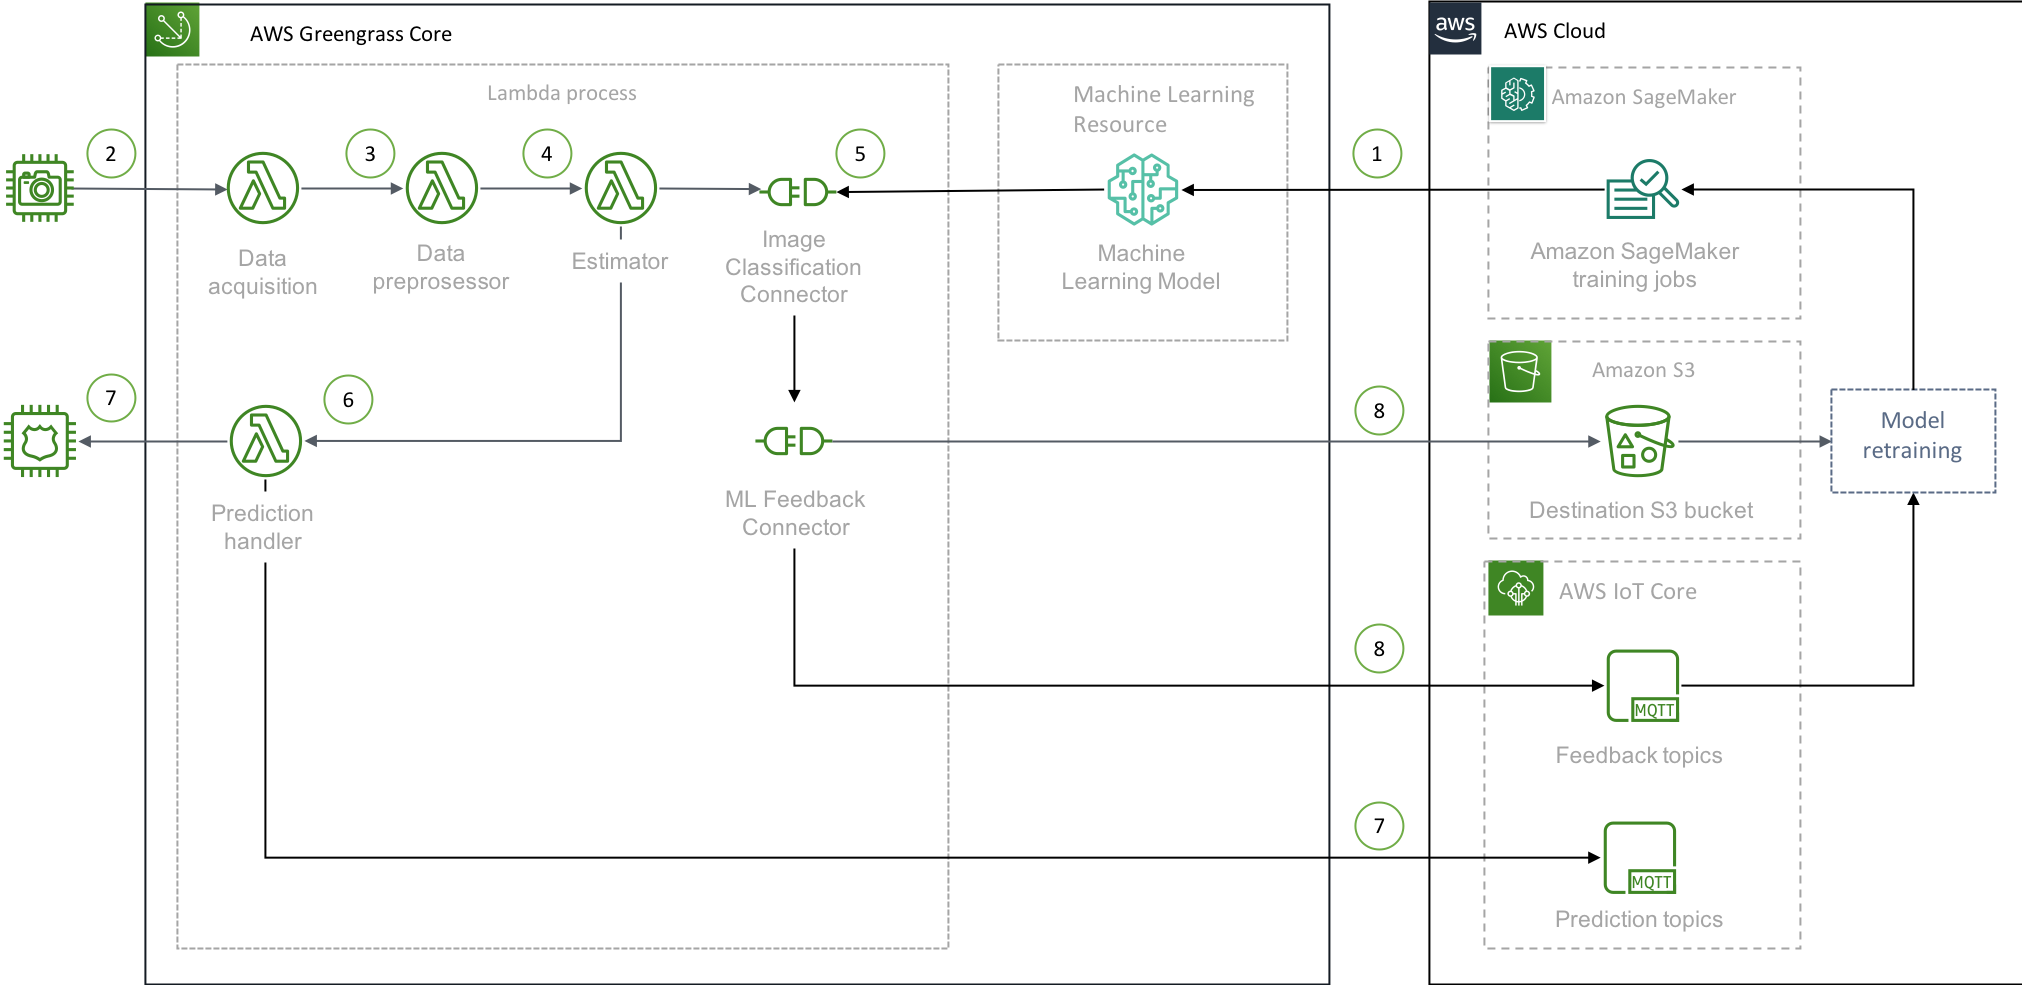
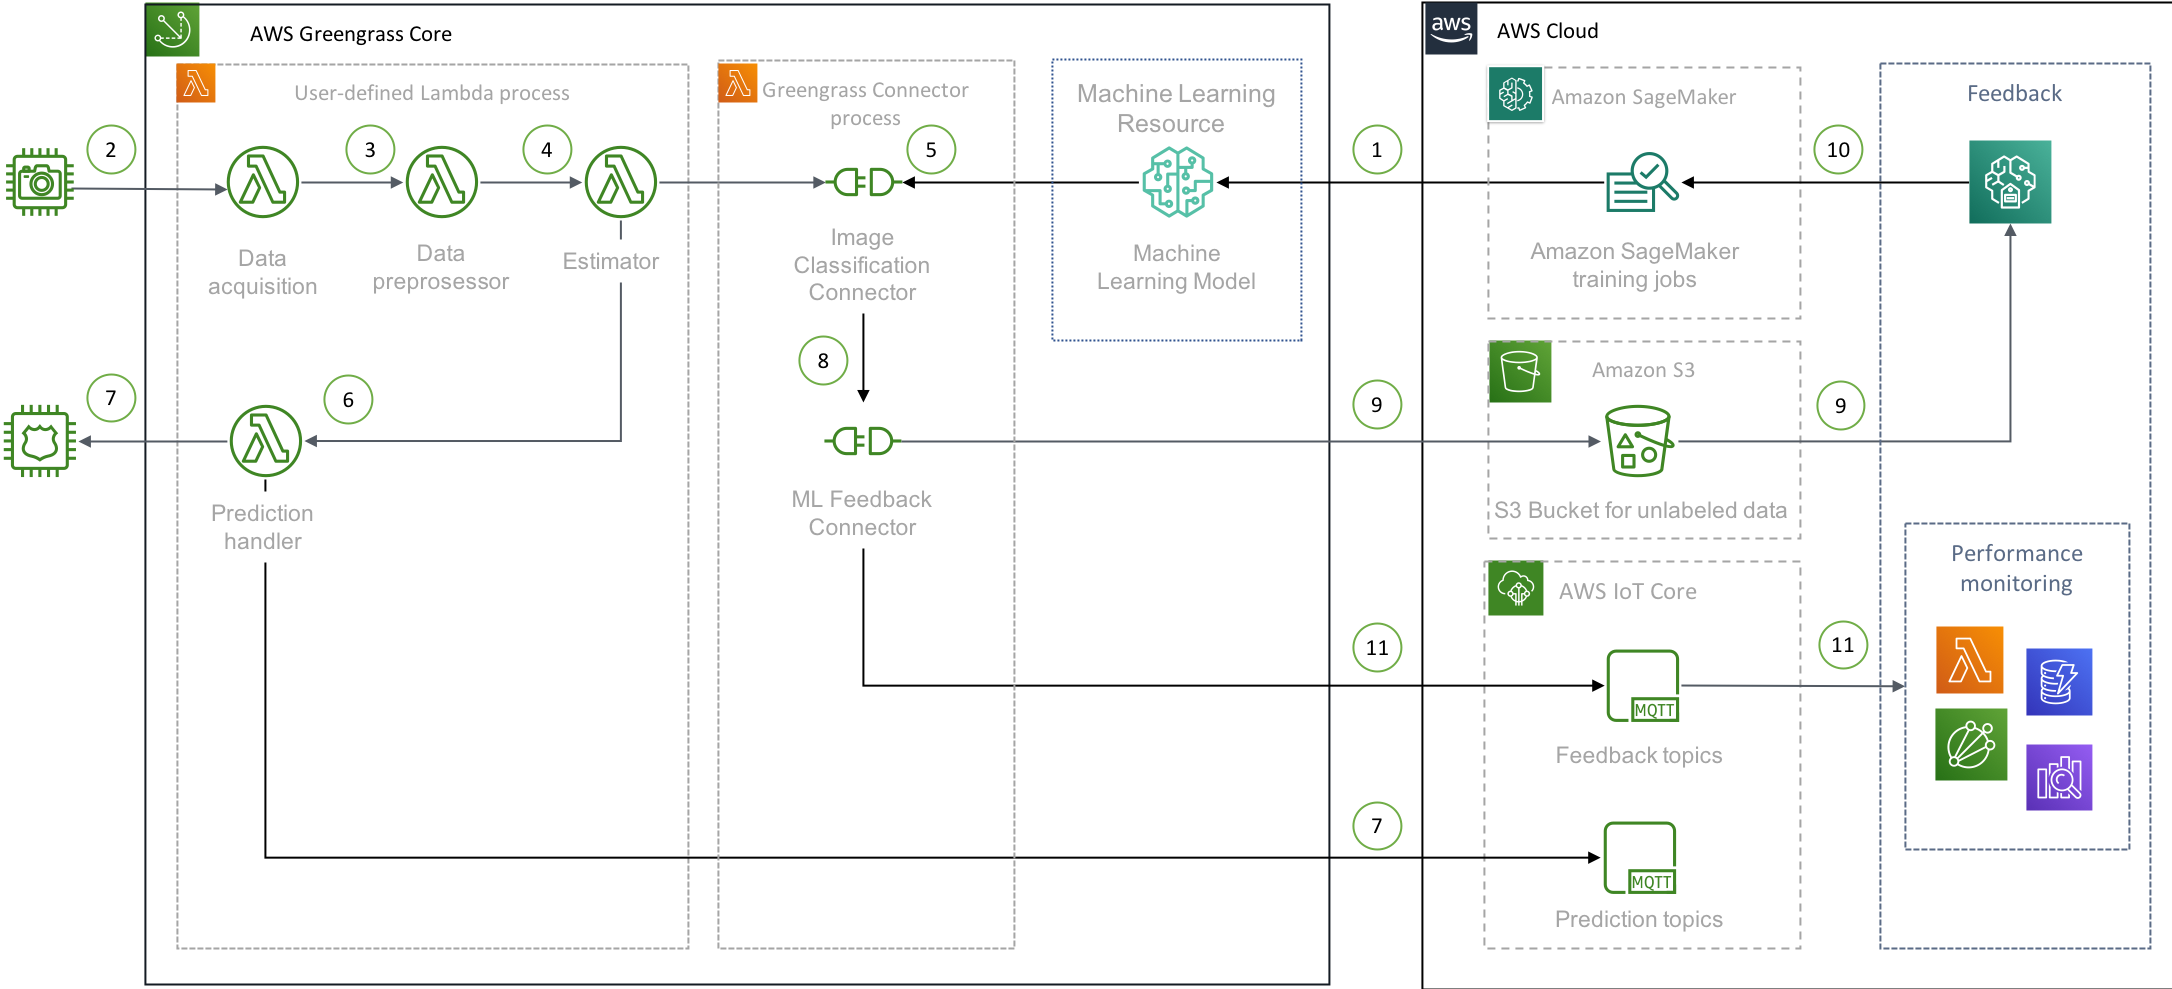
added more detaisl on ML feedback connector

diff --git a/accelerators/machine_learning_inference/Greengrass_Connectors.md b/accelerators/machine_learning_inference/Greengrass_Connectors.md
@@ -1,6 +1,13 @@
 # Greengrass Machine Learning Inference (MLI) using Greengrass Connectors 
 
-This document describe the steps in setting up Greengrass Machine Learning Inference, using Greengrass Image Classification with a SageMaker training job. Greengrass ML Feedback connector will also be used, for future model retraining or prediction results analysis.
+This document describe the steps in setting up Greengrass Machine Learning Inference, using Greengrass Image Classification Connector with Amazon SageMaker training job. Greengrass ML Feedback connector will be used to collect data from the field for future model retraining or prediction results analysis.
+
+## Greengrass Machine Learning (ML) Connectors
+
+Using Greengrass Connectors for Machine Learning at the edge offers the following advantages: 
+
+1. Greengrass ML Connectors are prebuilt modules to help accelerate the development lifecycle for ML at the edge. Deployment of Greengrass ML Connectors includes the libraries optimized for the hardware platform, eliminates the complexity of having to manage the libraries for dfferent hardware platform which is required if [running the ML without any Greengrass Connector](https://github.com/awslabs/aws-iot-greengrass-accelerators/blob/master/accelerators/machine_learning_inference/S3_MODELS.md#how-to-deploy-the-accelerator)
+2. Greengrass ML Feedback Connector supports [sampling strategies](https://docs.aws.amazon.com/en_pv/greengrass/latest/developerguide/ml-feedback-connector), offering cost effectiveness in collecting data in the field. 
 
 ## Design Pattern
 
@@ -12,10 +19,13 @@ The common design patterns of using Greengrass Connectors:
 2. **Data acquisition** - This function periodically acquire the raw data inputs from a image source. In this example, we are using static images to simulate image sources.
 3. **Data preprocessor** - This function pre-process the image by resize to the images used to train the model.
 4. **Estimator** - This function predict the data input with the connector via IPC
-5. The Connector loads the model from local Greengrass resource and invoke the model. **The Greengrass Image Classification connector is bundled with a precompiled MXNet library, so you don't need to install the MXNet framework on the core device.**
+5. **Greengrass ML Image Classification Connector** - The Connector loads the model from local Greengrass resource and invoke the model. 
 6. The process will handle the prediction result, with object detected and confidence level.
 7. The result can be used to trigger an action, or send it back to the cloud for further processing.
-8. Using a Greengrass ML Feedback Connector, the result from prediction can be sent back to AWS for model retraining and analysis.
+8. **Greengrass ML Feedback Connector** - Greengrass ML Feedback Connector sends field data back to AWS according to the sampling strategy configured
+9. Greengrass ML Feedback Connector sends unlabeled data to AWS
+10. Unlabled data can be labeled using Amazon Ground Truth, and the labeled data can be used to retrain the model
+11. Greengrass ML Feedback Connector sends prediction performance which can be used for performance analysis in realtime using AWS services.
 
 ## How to Deploy the Accelerator
 
